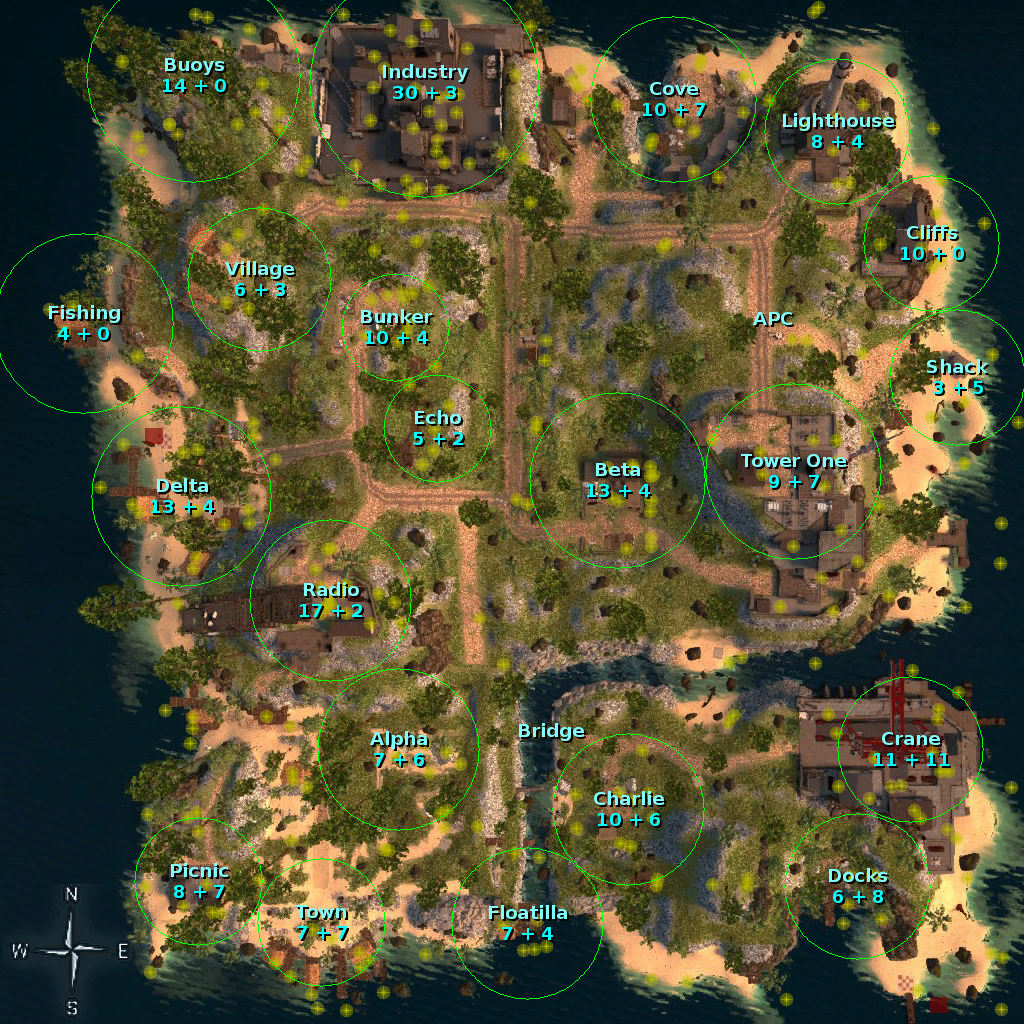
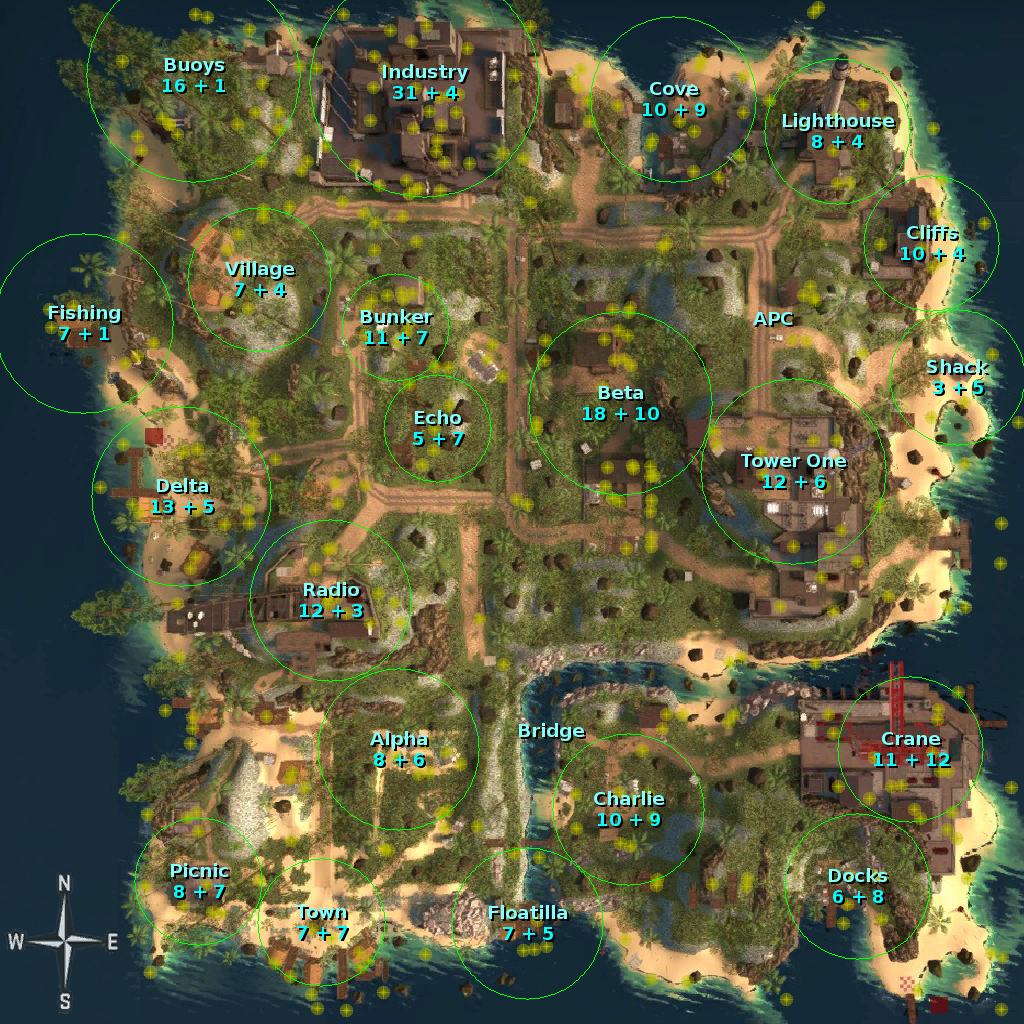
Update Jungle with its latest changes

diff --git a/entity_map/jungle202002.md b/entity_map/jungle202002.md
@@ -1,0 +1,39 @@
+Jungle's Feb 2020 update
+========================
+
+Being a new map, dz_junglety has seen several updates since its inclusion. A
+few highlights from the update released Feb 2020:
+
+* Previously, there were insufficient spawn locations to generate all the loot.
+  This resulted in the loose money simply not being spawned (100 wads of cash).
+  As of Feb 2020, there are now just enough for the current loot mapping (343,
+  with 333 items to be spawned). If Valve choose to add additional loot (even
+  if it's not "normal" loot, such as the red barrels), or if a community server
+  uses different loot distribution, this may break again; but for now, every
+  item IS spawning. Note that the current spawn point count means that there
+  will be only ten "empty" spawn locations, compared to roughly two hundred on
+  the other two maps; this means that you'll find loot very consistently.
+* A few labels have moved around near Radio, and its upper levels have been
+  removed. It now more accurately portrays its true value.
+* The label "Beta" has moved northward. This eliminates the weird no-man's-land
+  with as good spawns as a named location, giving credit to Beta.
+* Most locations have gained at least 1-3 additional spawns. A few smaller
+  ones haven't, but they haven't lost any either.
+* The biggest spawn gains have been in the interior of the island. This should
+  tend to cause players to clump, creating interesting encounters.
+* The perimeter of the island gained the fewest spawns, but even there, most of
+  the named locations have gained 1-3 spawn points.
+
+Compare the previous and current spawns:
+
+---
+
+Previous:
+
+![Previous](https://raw.githubusercontent.com/Rosuav/shed/7011678272dee8175be3c20fbc3b023d34dadb4a/entity_map/dz_junglety_annotated.png)
+
+---
+
+Current:
+
+![TODO](...)

diff --git a/entity_map/index.md b/entity_map/index.md
@@ -1,14 +1,14 @@
 Danger Zone maps, annotated with loot density
 =============================================
 
-As of 2019-12-26, the three maps available in CS:GO's Danger Zone are:
+As of 2020-02-05, the three maps available in CS:GO's Danger Zone are:
 
 * Blacksite - the original and (arguably) the best. Lots of named locations
   (some of which aren't very interesting), lots of loot drops, well known.
 * Sirocco - the one that introduced us to exo-jump. Not as many named locations
   as on Blacksite, but they cover a bit more area each. Also well known.
-* Junglety - created by community mapper michal3210. Has only 300ish loot
-  spawns, which causes some small problems for the map.
+* Junglety - created by community mapper michal3210. Formerly had only 300ish
+  loot spawns, which caused some small problems for the map; see [Feb 2020 Jungle Update](jungle202002).
 
 In order to analyze the loot distribution, I created a quick dump of all the
 loot spawns and the map named locations. This was done using [this code](https://github.com/Rosuav/TF2BuffBot/blob/3d8fc6a/drzed.sp#L1695-L1726)
